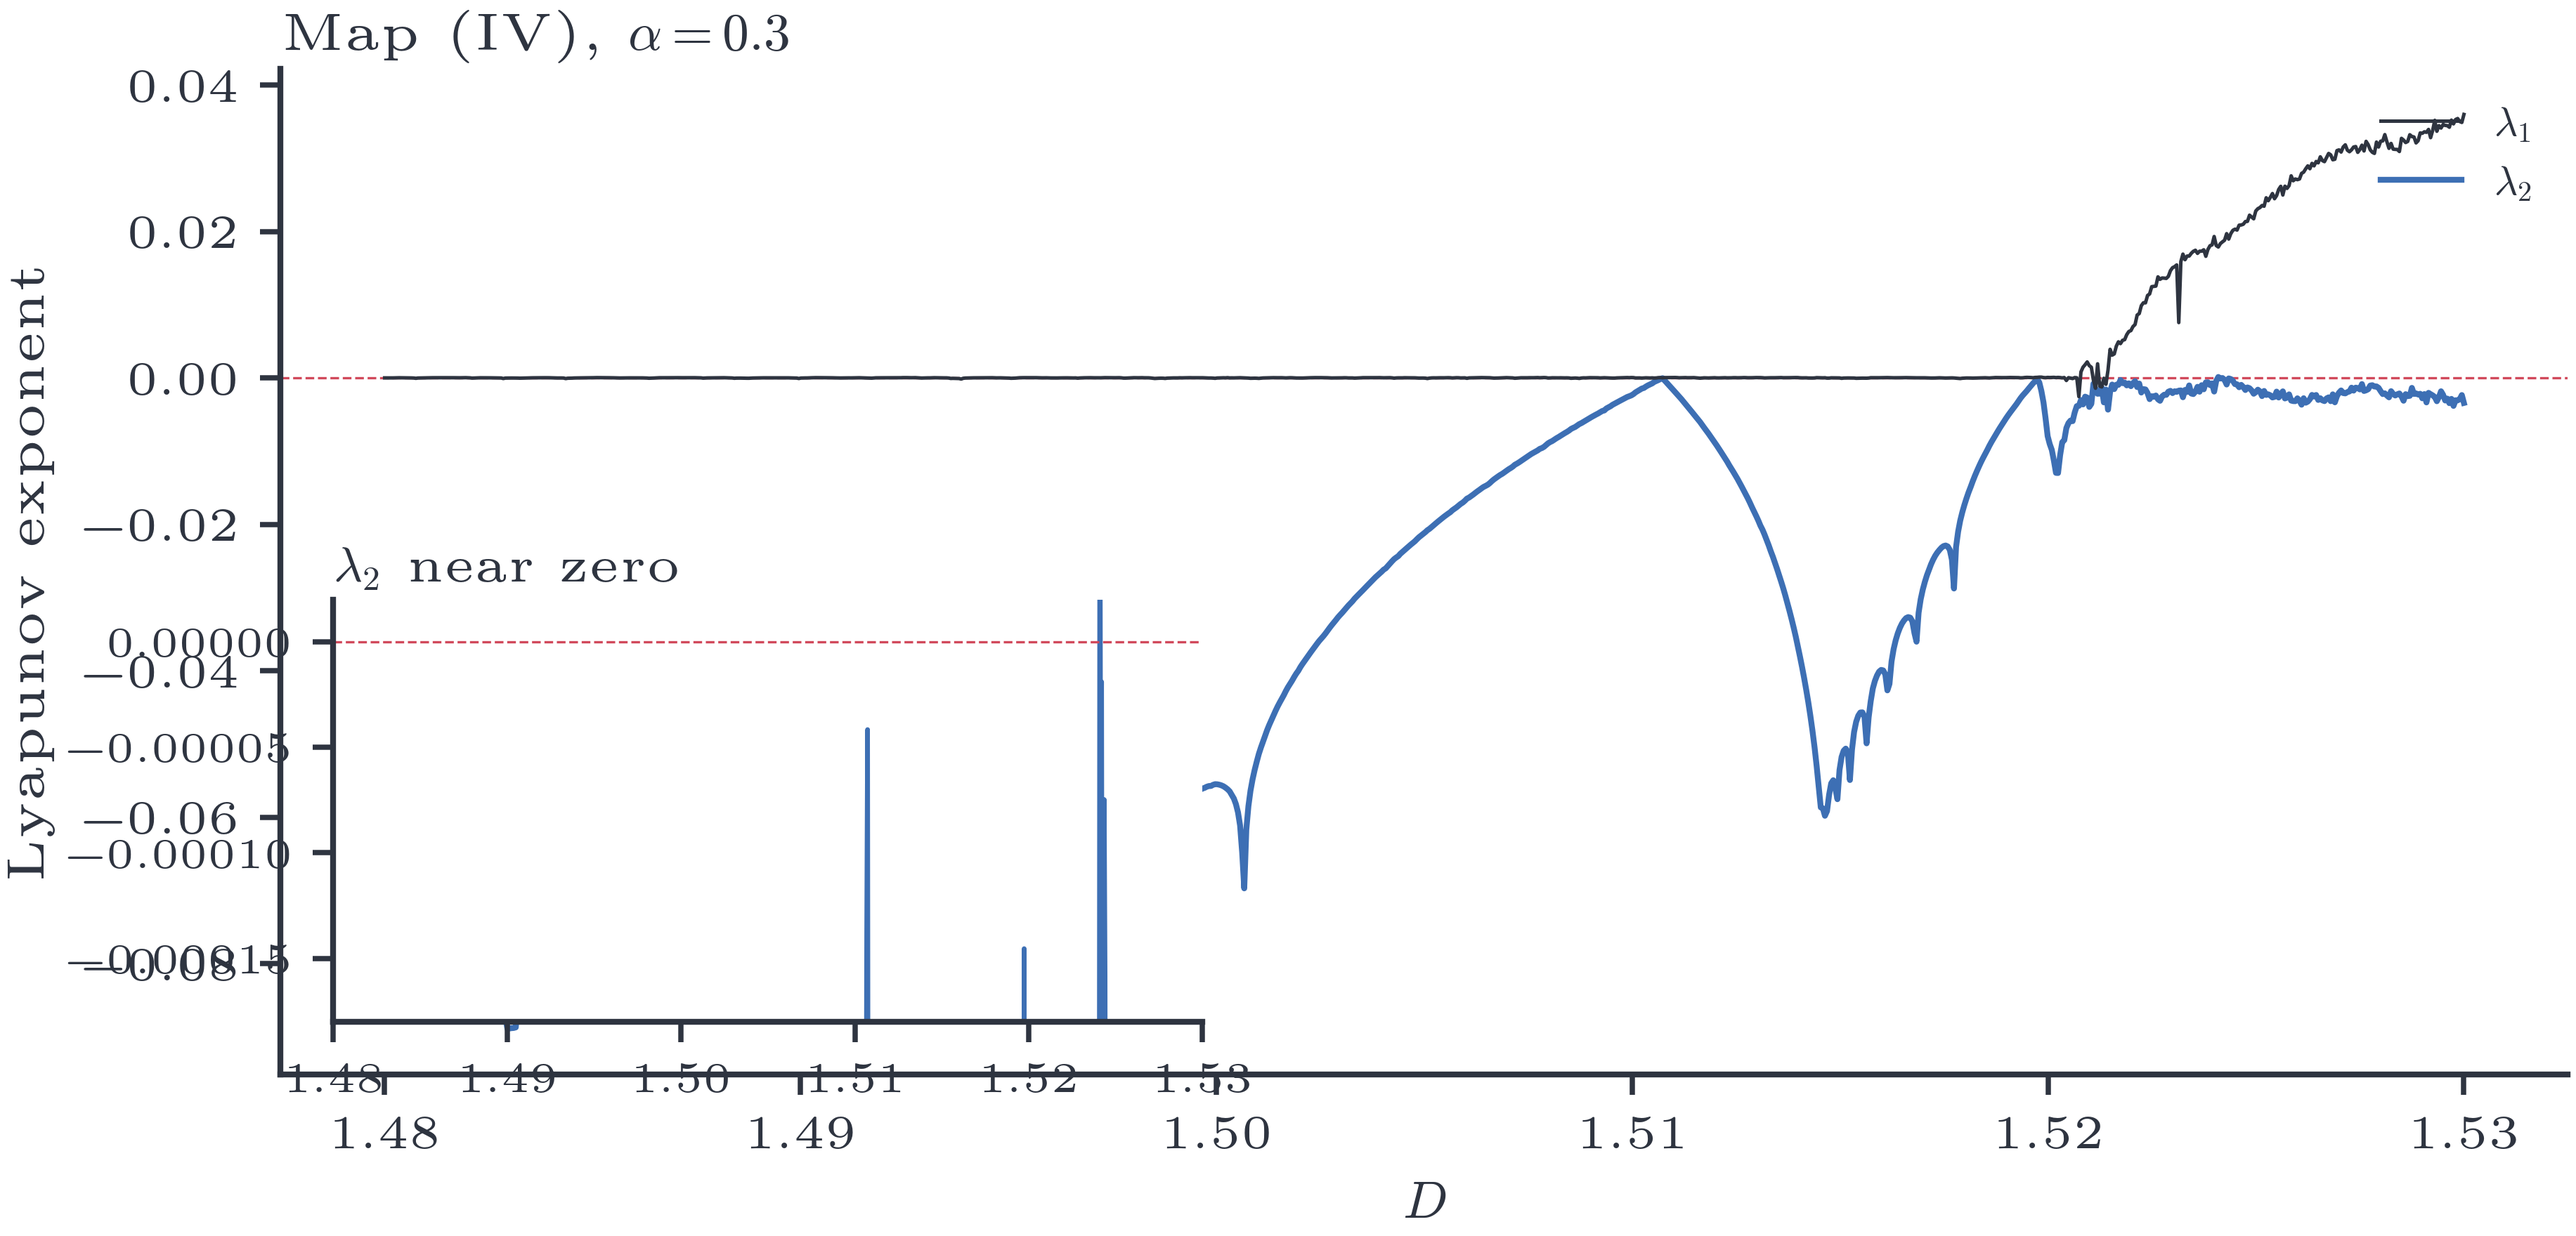
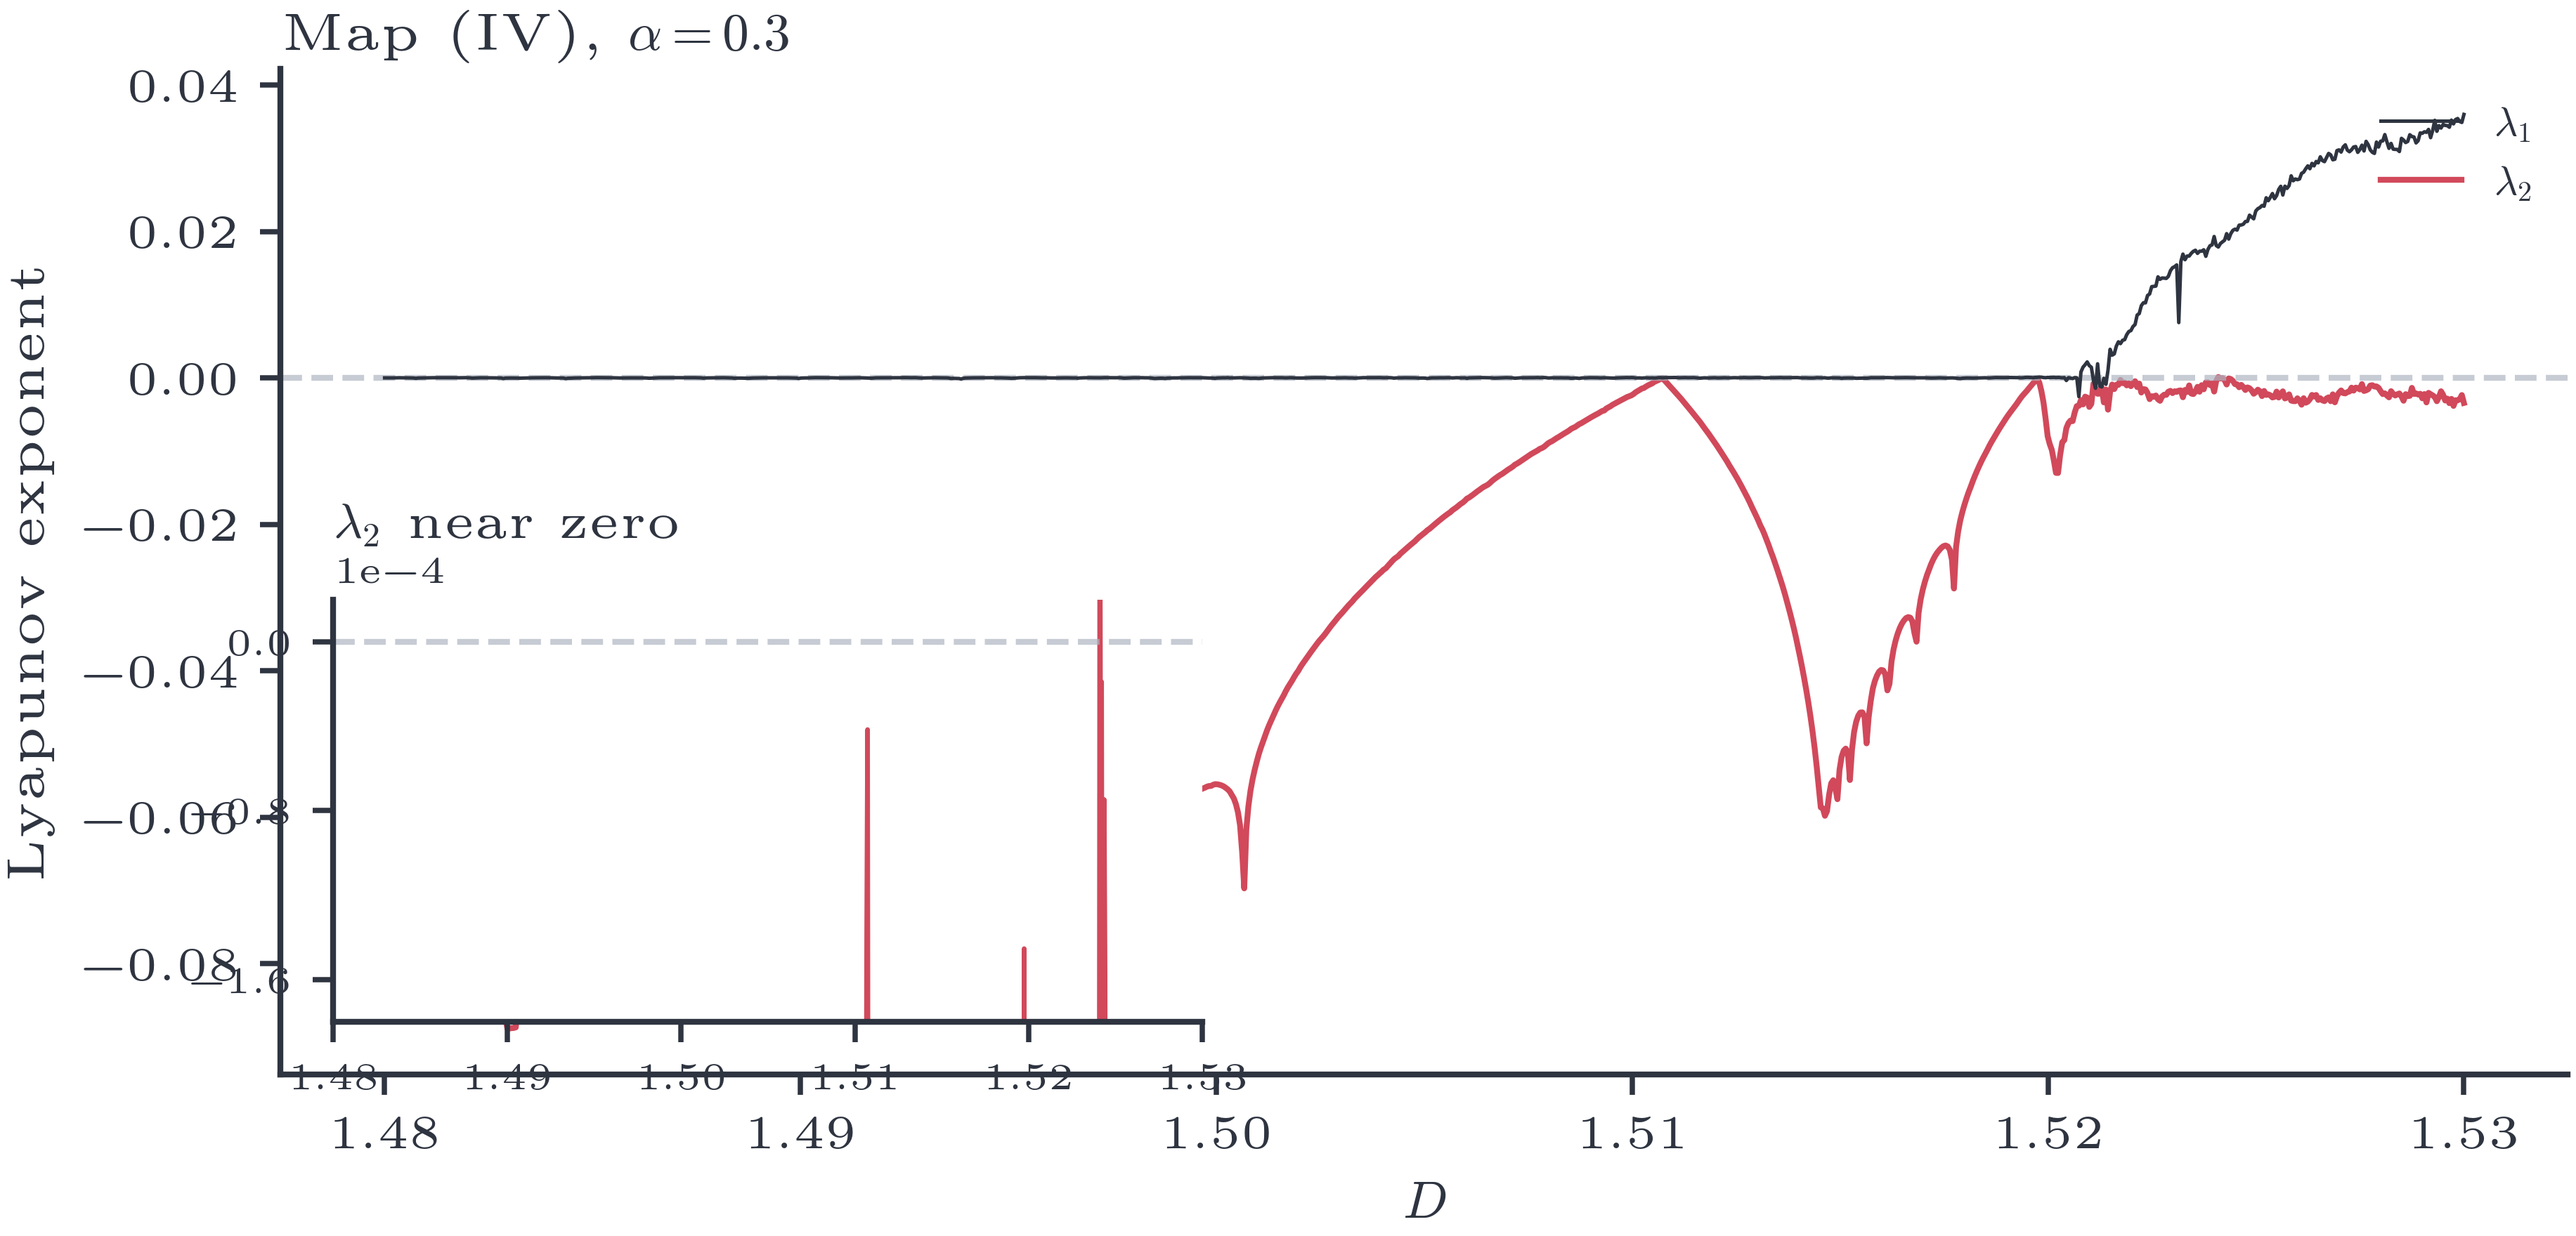
style(sec04): apply figure grammar — panel labels, lyap colours, inset fix
torus_doubling.py: bold (a)(b)(c) labels on map_I/map_IV attractor panels;
map_IV_lyapunov lambda_1->ink lambda_2->vermilion (lyap_color), zero line->grey;
inset y-ticks use scientific 1e-4 offset + smaller font to stop label overlap.
Presentation only; npz unchanged.

diff --git a/src/dynachaos/maps/torus_doubling.py b/src/dynachaos/maps/torus_doubling.py
@@ -19,7 +19,8 @@ OUTPUTS: figures/sec04_doubling/*.npz, *.png
 
 import numpy as np
 
-from dynachaos.io.paths import load_or_compute_payload, safe_load, section_dir, write_payload as _io_write_payload
+from dynachaos.io.paths import load_or_compute_payload, safe_load, section_dir
+from dynachaos.io.paths import write_payload as _io_write_payload
 from dynachaos.maps._iter import run_animation_sweep, trajectory_after_transient
 from dynachaos.maps.primitives import logistic, logistic_derivative
 
@@ -199,7 +200,7 @@ def plot_map_I(data):
     """Plot Map (I) attractor projections onto (X, Y) plane."""
     import matplotlib.pyplot as plt
 
-    from dynachaos.utils.style import COLORS, apply_axes_polish, figure_spec, setup
+    from dynachaos.utils.style import COLORS, apply_axes_polish, figure_spec, panel_label, setup
 
     setup()
 
@@ -222,6 +223,7 @@ def plot_map_I(data):
         if idx == 0:
             ax.set_ylabel("$Y$")
         apply_axes_polish(ax, kind="grid", title_loc="left", grid=False, equal=True)
+        panel_label(ax, chr(ord("a") + idx))
 
     fig.suptitle(
         "Map (I), $\\alpha = 0.4$: projection onto $(X, Y)$",
@@ -240,7 +242,7 @@ def plot_map_IV(data):
     import matplotlib.pyplot as plt
     from mpl_toolkits.axes_grid1.inset_locator import inset_axes
 
-    from dynachaos.utils.style import COLORS, apply_axes_polish, figure_spec, setup
+    from dynachaos.utils.style import COLORS, apply_axes_polish, figure_spec, panel_label, setup
 
     setup()
 
@@ -282,6 +284,7 @@ def plot_map_IV(data):
         ax.set_xlabel("$X$")
         ax.set_ylabel("$Y$")
         apply_axes_polish(ax, kind="grid", title_loc="left")
+        panel_label(ax, chr(ord("a") + idx))
 
     fig.suptitle(
         "Map (IV), $\\alpha = 0.3$: projection onto $(X, Y)$",
@@ -298,6 +301,7 @@ def plot_map_IV(data):
 def plot_lyapunov(data):
     """Plot Lyapunov exponents for Map (IV) vs D."""
     import matplotlib.pyplot as plt
+    from matplotlib.ticker import MaxNLocator
     from mpl_toolkits.axes_grid1.inset_locator import inset_axes
 
     from dynachaos.utils.style import (
@@ -305,6 +309,8 @@ def plot_lyapunov(data):
         apply_axes_polish,
         figure_spec,
         finalize_legend,
+        lyap_color,
+        reference_line,
         setup,
     )
 
@@ -316,14 +322,14 @@ def plot_lyapunov(data):
     spec = figure_spec("double")
     fig, ax = plt.subplots(figsize=spec.figsize)
     labels_le = [r"$\lambda_1$", r"$\lambda_2$"]
-    colors = [COLORS["black"], COLORS["blue"]]
+    colors = [COLORS["black"], lyap_color(1)]
     linewidths = [0.6, 1.0]
     # Only plot first two (3rd and 4th are large negative, as Kaneko notes)
     for k in range(2):
         ax.plot(
             D, spectra[:, k], color=colors[k], lw=linewidths[k], label=labels_le[k], zorder=3 - k
         )
-    ax.axhline(0, color=COLORS["red"], lw=0.4, ls="--", zorder=1)
+    reference_line(ax, 0, axis="y")
     ax.set_xlabel(r"$D$")
     ax.set_ylabel("Lyapunov exponent")
     ax.set_title("Map (IV), $\\alpha = 0.3$", loc="left")
@@ -331,13 +337,17 @@ def plot_lyapunov(data):
     finalize_legend(ax, kind="double", loc="upper right")
 
     axins = inset_axes(ax, width="38%", height="42%", loc="lower left", borderpad=1.0)
-    axins.plot(D, spectra[:, 1], color=COLORS["blue"], lw=0.8)
-    axins.axhline(0, color=COLORS["red"], lw=0.4, ls="--")
+    axins.plot(D, spectra[:, 1], color=lyap_color(1), lw=0.8)
+    reference_line(axins, 0, axis="y")
     axins.set_xlim(D.min(), D.max())
     axins.set_ylim(-1.8e-4, 2.0e-5)
     axins.set_title(r"$\lambda_2$ near zero", loc="left", fontsize=spec.tick_size)
     apply_axes_polish(axins, kind="grid", title_loc="left", grid=False)
-    axins.tick_params(labelsize=spec.tick_size - 0.8)
+    axins.yaxis.set_major_locator(MaxNLocator(3))
+    # Compact scientific tick labels so the tiny-magnitude values do not collide.
+    axins.ticklabel_format(axis="y", style="sci", scilimits=(0, 0))
+    axins.yaxis.get_offset_text().set_fontsize(spec.tick_size - 1.5)
+    axins.tick_params(labelsize=spec.tick_size - 1.5)
 
     fig.savefig(LYAP_PNG, dpi=600, bbox_inches="tight")
     plt.close(fig)
